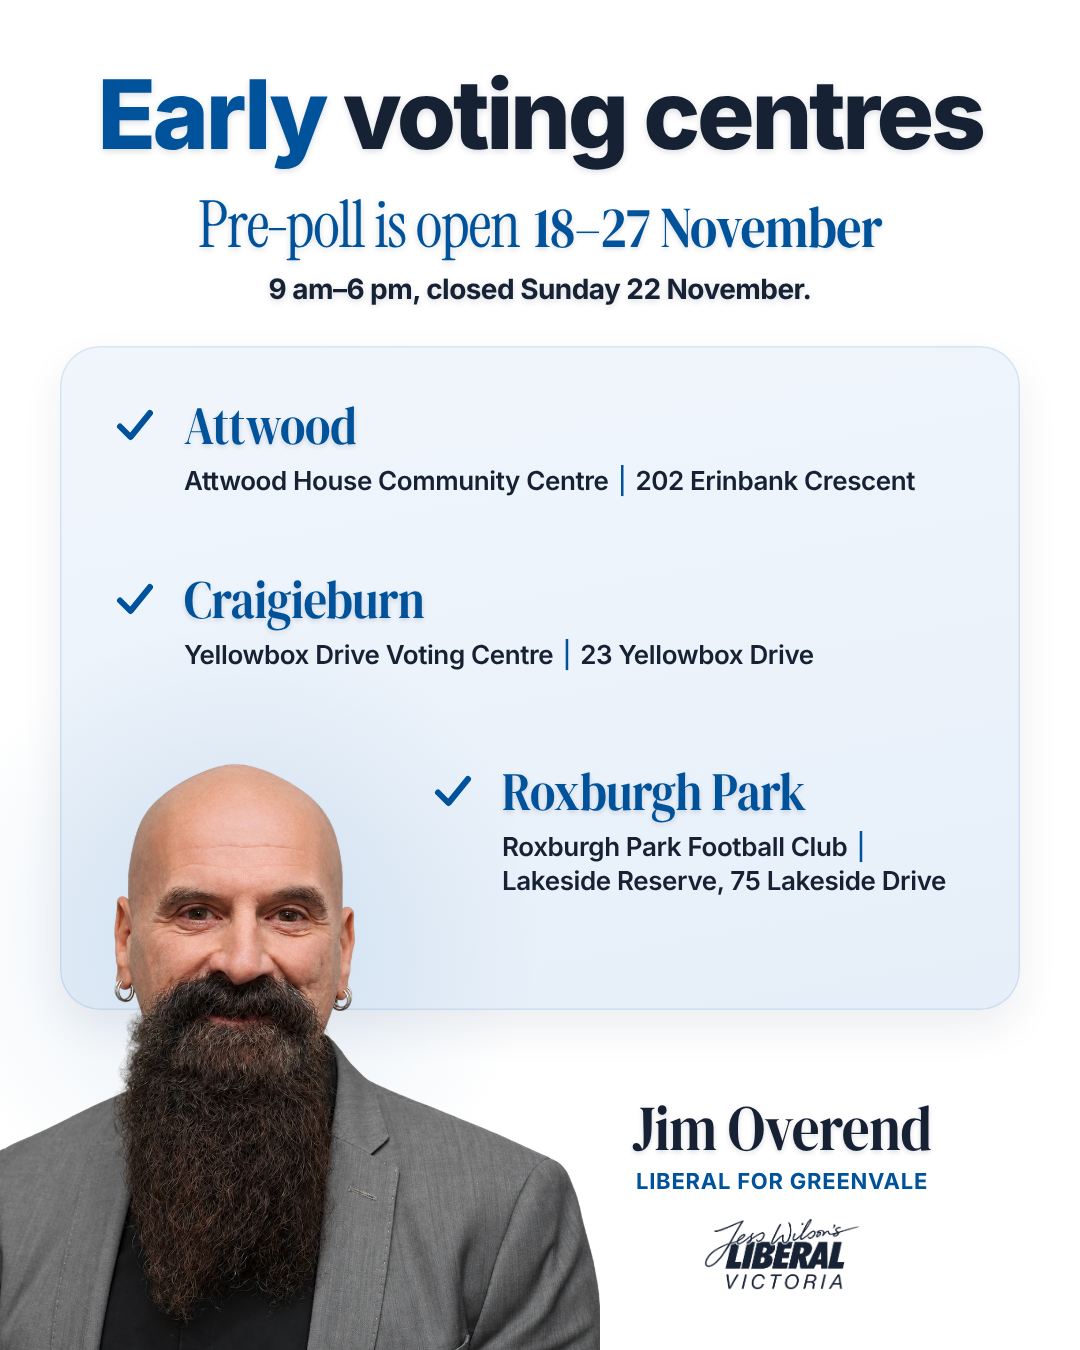
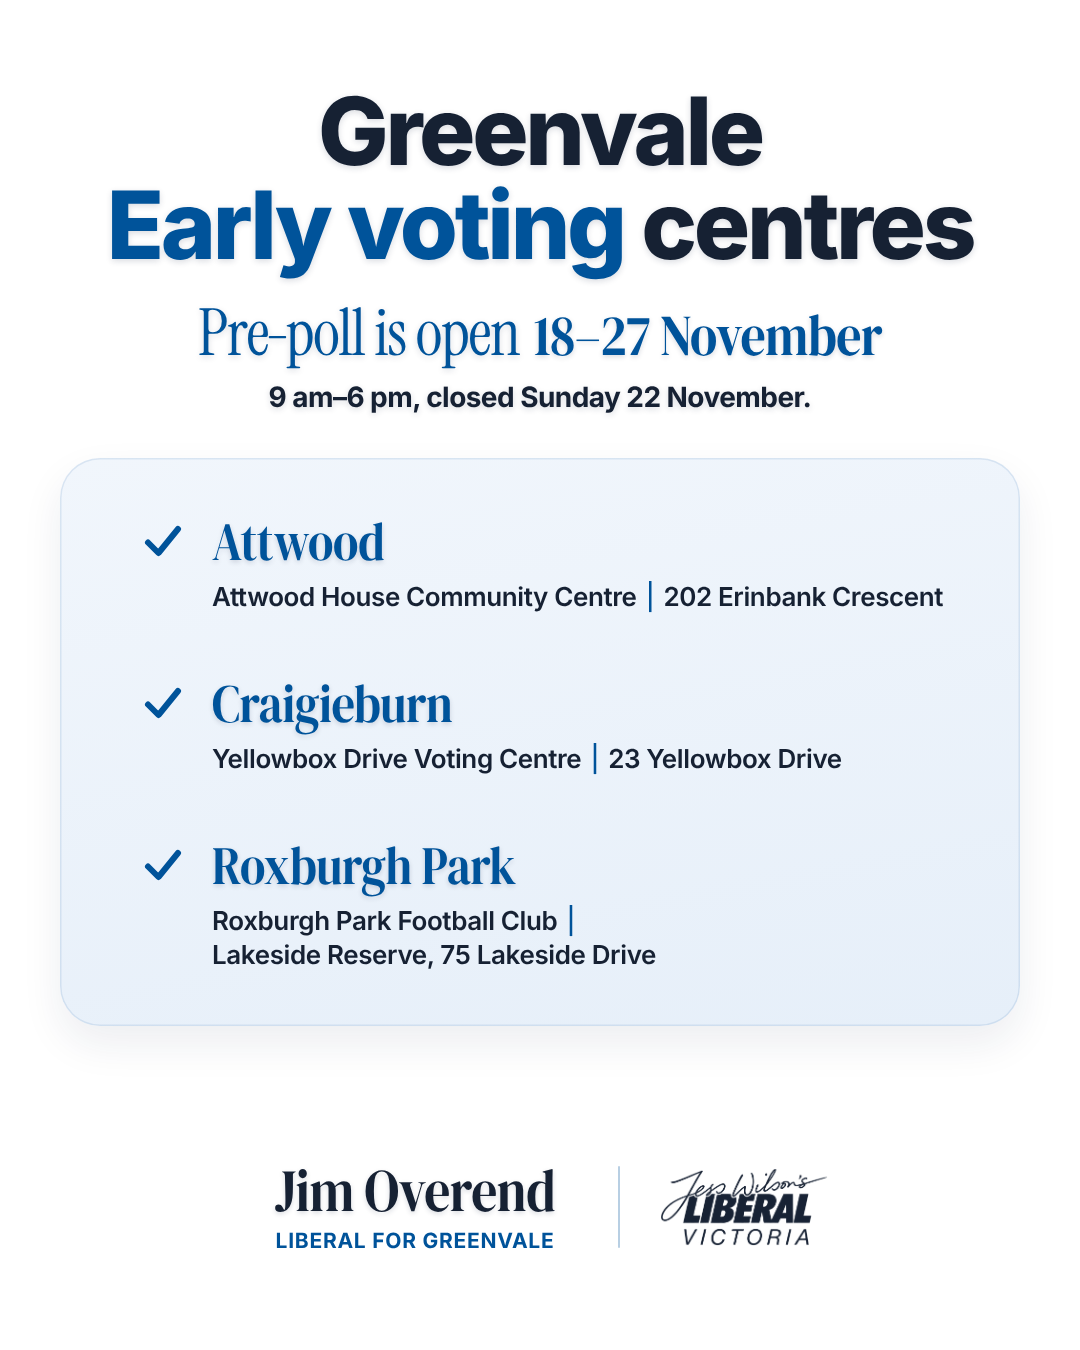
Early voting panel card: drop photo, add Greenvale to title
Remove the candidate photo for a symmetrical layout: venues in one
centred column, footer of name block and logo centred with a divider.
Title becomes "Greenvale / Early voting centres" with "Early voting"
in blue. Vertical spacing rebalanced.

Claude-Session: https://claude.ai/code/session_01MT6wivusBEagFnhed7SAun

Changed region(s): [[0.0, 0.0311, 0.9167, 1.0], [0.5806, 0.8089, 0.8861, 0.9644], [0.0917, 0.3111, 0.1528, 0.3422]]

diff --git a/designs/greenvale-early-voting/source/early-voting-panel.html b/designs/greenvale-early-voting/source/early-voting-panel.html
@@ -1,8 +1,7 @@
 <!doctype html>
 <html><head><meta charset="utf-8">
 <!-- 1080x1350 early voting card: the "Early Voting centres" reference layout (two-tone heading, rounded
-     panel with ticked venues, candidate cut-out bottom-left overlapping the panel, last venue set beside him,
-     name block + logo along the bottom) in the light "Postal" style (white, navy/blue, Inter + condensed serif). -->
+     panel with ticked venues, name block + logo along the bottom; candidate photo left out for symmetry) in the light "Postal" style (white, navy/blue, Inter + condensed serif). -->
 <style>
 @font-face{font-family:"Serif Bold";src:url(DMSerifDisplay-Regular.ttf)}
 @font-face{font-family:"Serif Light";src:url(InstrumentSerif-Regular.ttf)}
@@ -30,8 +29,9 @@ h1 .acc{color:var(--blue)}
 .v .sub{font-family:"Serif Bold";color:var(--blue);line-height:1;letter-spacing:-.01em;transform:scaleX(.86);transform-origin:0 50%;white-space:nowrap;text-shadow:var(--shadow)}
 .v .det{margin-top:12px;font-family:"Inter";font-weight:600;color:var(--navy);letter-spacing:-.015em;line-height:1.32}
 .v .det .bar{color:var(--blue);font-weight:500;margin:0 .35em}
-#halo{border-radius:50%;background:radial-gradient(circle,rgba(0,83,154,.12) 0%,rgba(0,83,154,.04) 45%,rgba(0,83,154,0) 70%)}
+#footer{left:0;right:0;display:flex;justify-content:center;align-items:center;gap:40px}
 #name{text-align:center}
+#divider{width:2px;align-self:stretch;margin:6px 0;background:rgba(0,83,154,.28);border-radius:1px}
 #name .n{font-family:"Serif Bold";color:var(--navy);line-height:1;letter-spacing:-.01em;white-space:nowrap;text-shadow:var(--shadow);
   display:inline-block;transform:scaleX(.86)}
 #name .r{margin-top:8px;font-family:"Inter";font-weight:700;color:var(--blue);letter-spacing:.035em;text-transform:uppercase;line-height:1.25}
@@ -42,28 +42,29 @@ h1 .acc{color:var(--blue)}
   <div id="hours" class="abs center note"></div>
   <div id="panel" class="abs"></div>
   <div id="list"></div>
-  <div id="halo" class="abs"></div>
-  <img id="jim" class="abs" src="jim.png" alt="Jim Overend">
-  <div id="name" class="abs"><div class="n"></div><div class="r"></div></div>
-  <img id="logo" class="abs" src="logo-navy.png" alt="Jess Wilson's Liberal Victoria">
+  <div id="footer" class="abs">
+    <div id="name"><div class="n"></div><div class="r"></div></div>
+    <div id="divider"></div>
+    <img id="logo" src="logo-navy.png" alt="Jess Wilson's Liberal Victoria">
+  </div>
 </div>
 <script>
 const P = Object.assign({
   // Defaults = the published layout. Override any key via ?p={"key":value} (see render.js).
-  head:'<span class="acc">Early</span> voting centres', hTop:66, hSize:96,
-  dates:'<span class="lt">Pre<span style="margin:0 -.07em">-</span>poll is open</span> <span class="bd">18–27 November</span>', dTop:190, dSize:58,
-  hours:'9 am–6 pm, closed Sunday 22 November.', hrTop:272, hrSize:28,
-  panel:[60,346,960,664],                  // left, top, width, height
-  // venues: [suburb, venue, address, left, top, width]  (3rd sits beside the candidate, as in the reference)
+  head:'Greenvale<br><span class="acc">Early voting</span> centres', hTop:84, hSize:94,
+  dates:'<span class="lt">Pre<span style="margin:0 -.07em">-</span>poll is open</span> <span class="bd">18–27 November</span>', dTop:298, dSize:58,
+  hours:'9 am–6 pm, closed Sunday 22 November.', hrTop:380, hrSize:28,
+  panel:[60,458,960,568],                  // left, top, width, height
+  // venues: [suburb, venue, address, left, top, width] — one centred column; long lines wrap after the bar
   venues:[
-    ['Attwood','Attwood House Community Centre','202 Erinbank Crescent',112,398,880],
-    ['Craigieburn','Yellowbox Drive Voting Centre','23 Yellowbox Drive',112,572,880],
-    ['Roxburgh Park','Roxburgh Park Football Club','Lakeside Reserve, 75 Lakeside Drive',430,764,560],
+    ['Attwood','Attwood House Community Centre','202 Erinbank Crescent',140,514,820],
+    ['Craigieburn','Yellowbox Drive Voting Centre','23 Yellowbox Drive',140,676,820],
+    ['Roxburgh Park','Roxburgh Park Football Club','Lakeside Reserve, 75 Lakeside Drive',140,838,820],
   ],
   subSize:54, detSize:26,
-  jim:[-124,708,724], halo:[236,930,620],   // portrait left, top, width; halo centre x, y, diameter
-  name:{cx:782, top:1096, size:64, text:'Jim Overend', role:'Liberal for Greenvale', roleSize:22},
-  logo:[704,1218,156]
+  footerTop:1160,
+  name:{size:60, text:'Jim Overend', role:'Liberal for Greenvale', roleSize:21},
+  logoW:168
 }, JSON.parse(new URLSearchParams(location.search).get('p')||'{}'));
 const $=id=>document.getElementById(id), px=v=>v+'px';
 Object.assign($('h').style,{top:px(P.hTop),fontSize:px(P.hSize)}); $('h').innerHTML=P.head;
@@ -73,14 +74,12 @@ const [pl,pt,pw,ph]=P.panel; Object.assign($('panel').style,{left:px(pl),top:px(
 const tick=`<svg class="tick" viewBox="0 0 46 46" fill="none" stroke="#00539a" stroke-width="6" stroke-linecap="round" stroke-linejoin="round"><path d="M8 24.5 18.5 35 38 11"/></svg>`;
 $('list').innerHTML=P.venues.map(([s,v,a,x,y,w])=>`<div class="v" style="left:${x}px;top:${y}px;width:${w}px">${tick}<div>
   <div class="sub" style="font-size:${P.subSize}px">${s}</div>
-  <div class="det" style="font-size:${P.detSize}px">${v}<span class="bar">|</span>${w<700?'<br>':''}${a}</div></div></div>`).join('');
+  <div class="det" style="font-size:${P.detSize}px">${v}<span class="bar">|</span>${(v+a).length>60?'<br>':''}${a}</div></div></div>`).join('');
 document.fonts.ready.then(()=>document.querySelectorAll('.serif .bd').forEach(el=>{
   const w=el.offsetWidth, m=-(w*(1-0.86)/2); el.style.marginLeft=el.style.marginRight=m+'px'; }));
-const [jx,jy,jw]=P.jim; Object.assign($('jim').style,{left:px(jx),top:px(jy),width:px(jw)});
-const [hx,hy,hd]=P.halo; Object.assign($('halo').style,{left:px(hx-hd/2),top:px(hy-hd/2),width:px(hd),height:px(hd)});
-const N=P.name; Object.assign($('name').style,{left:px(N.cx-300),width:px(600),top:px(N.top)});
+const N=P.name; $('footer').style.top=px(P.footerTop);
 $('name').querySelector('.n').innerHTML=N.text; $('name').querySelector('.n').style.fontSize=px(N.size);
 $('name').querySelector('.r').innerHTML=N.role; $('name').querySelector('.r').style.fontSize=px(N.roleSize);
-const [lx,ly,lw]=P.logo; Object.assign($('logo').style,{left:px(lx),top:px(ly),width:px(lw)});
+$('logo').style.width=px(P.logoW);
 </script>
 </body></html>

diff --git a/designs/greenvale-early-voting/README.md b/designs/greenvale-early-voting/README.md
@@ -5,10 +5,11 @@ headline "Vote early in *Greenvale.*", pre-poll dates and hours, the Greenvale e
 numbered pins, a matching numbered venue list, and the Jess Wilson's Liberal Victoria watermark.
 
 - `greenvale-early-voting-panel.png` / `@2x` — **latest: 1080×1350 card, "Early Voting centres" reference
-  layout in the light style**: two-tone Inter heading, serif dates line, pale-blue rounded panel with blue
-  ticks, suburb in condensed serif and "venue | address" in navy sans, the last venue set beside the large
-  candidate cut-out (bottom-left, overlapping the panel), name block with the navy logo beneath. Source:
-  `source/early-voting-panel.html` (`node render.js '{}' early-voting-panel.html greenvale-early-voting-panel`).
+  layout in the light style, symmetrical (no candidate photo)**: heading "Greenvale / *Early voting* centres"
+  (Inter ExtraBold, "Early voting" in blue), serif dates line, pale-blue rounded panel with blue ticks, suburb
+  in condensed serif and "venue | address" in navy sans in one centred column, and a centred footer of
+  "Jim Overend / LIBERAL FOR GREENVALE" | navy Liberal Victoria logo. Source: `source/early-voting-panel.html`
+  (`node render.js '{}' early-voting-panel.html greenvale-early-voting-panel`).
 - `greenvale-early-voting-light.png` / `@2x` — 1080×1350 light card after the "Postal" reference:
   white ground, heavy navy Inter ExtraBold heading, blue condensed serif (Instrument Serif light + DM Serif
   Display bold), bold navy sans supporting lines with a soft text shadow; all type centred with generous white
